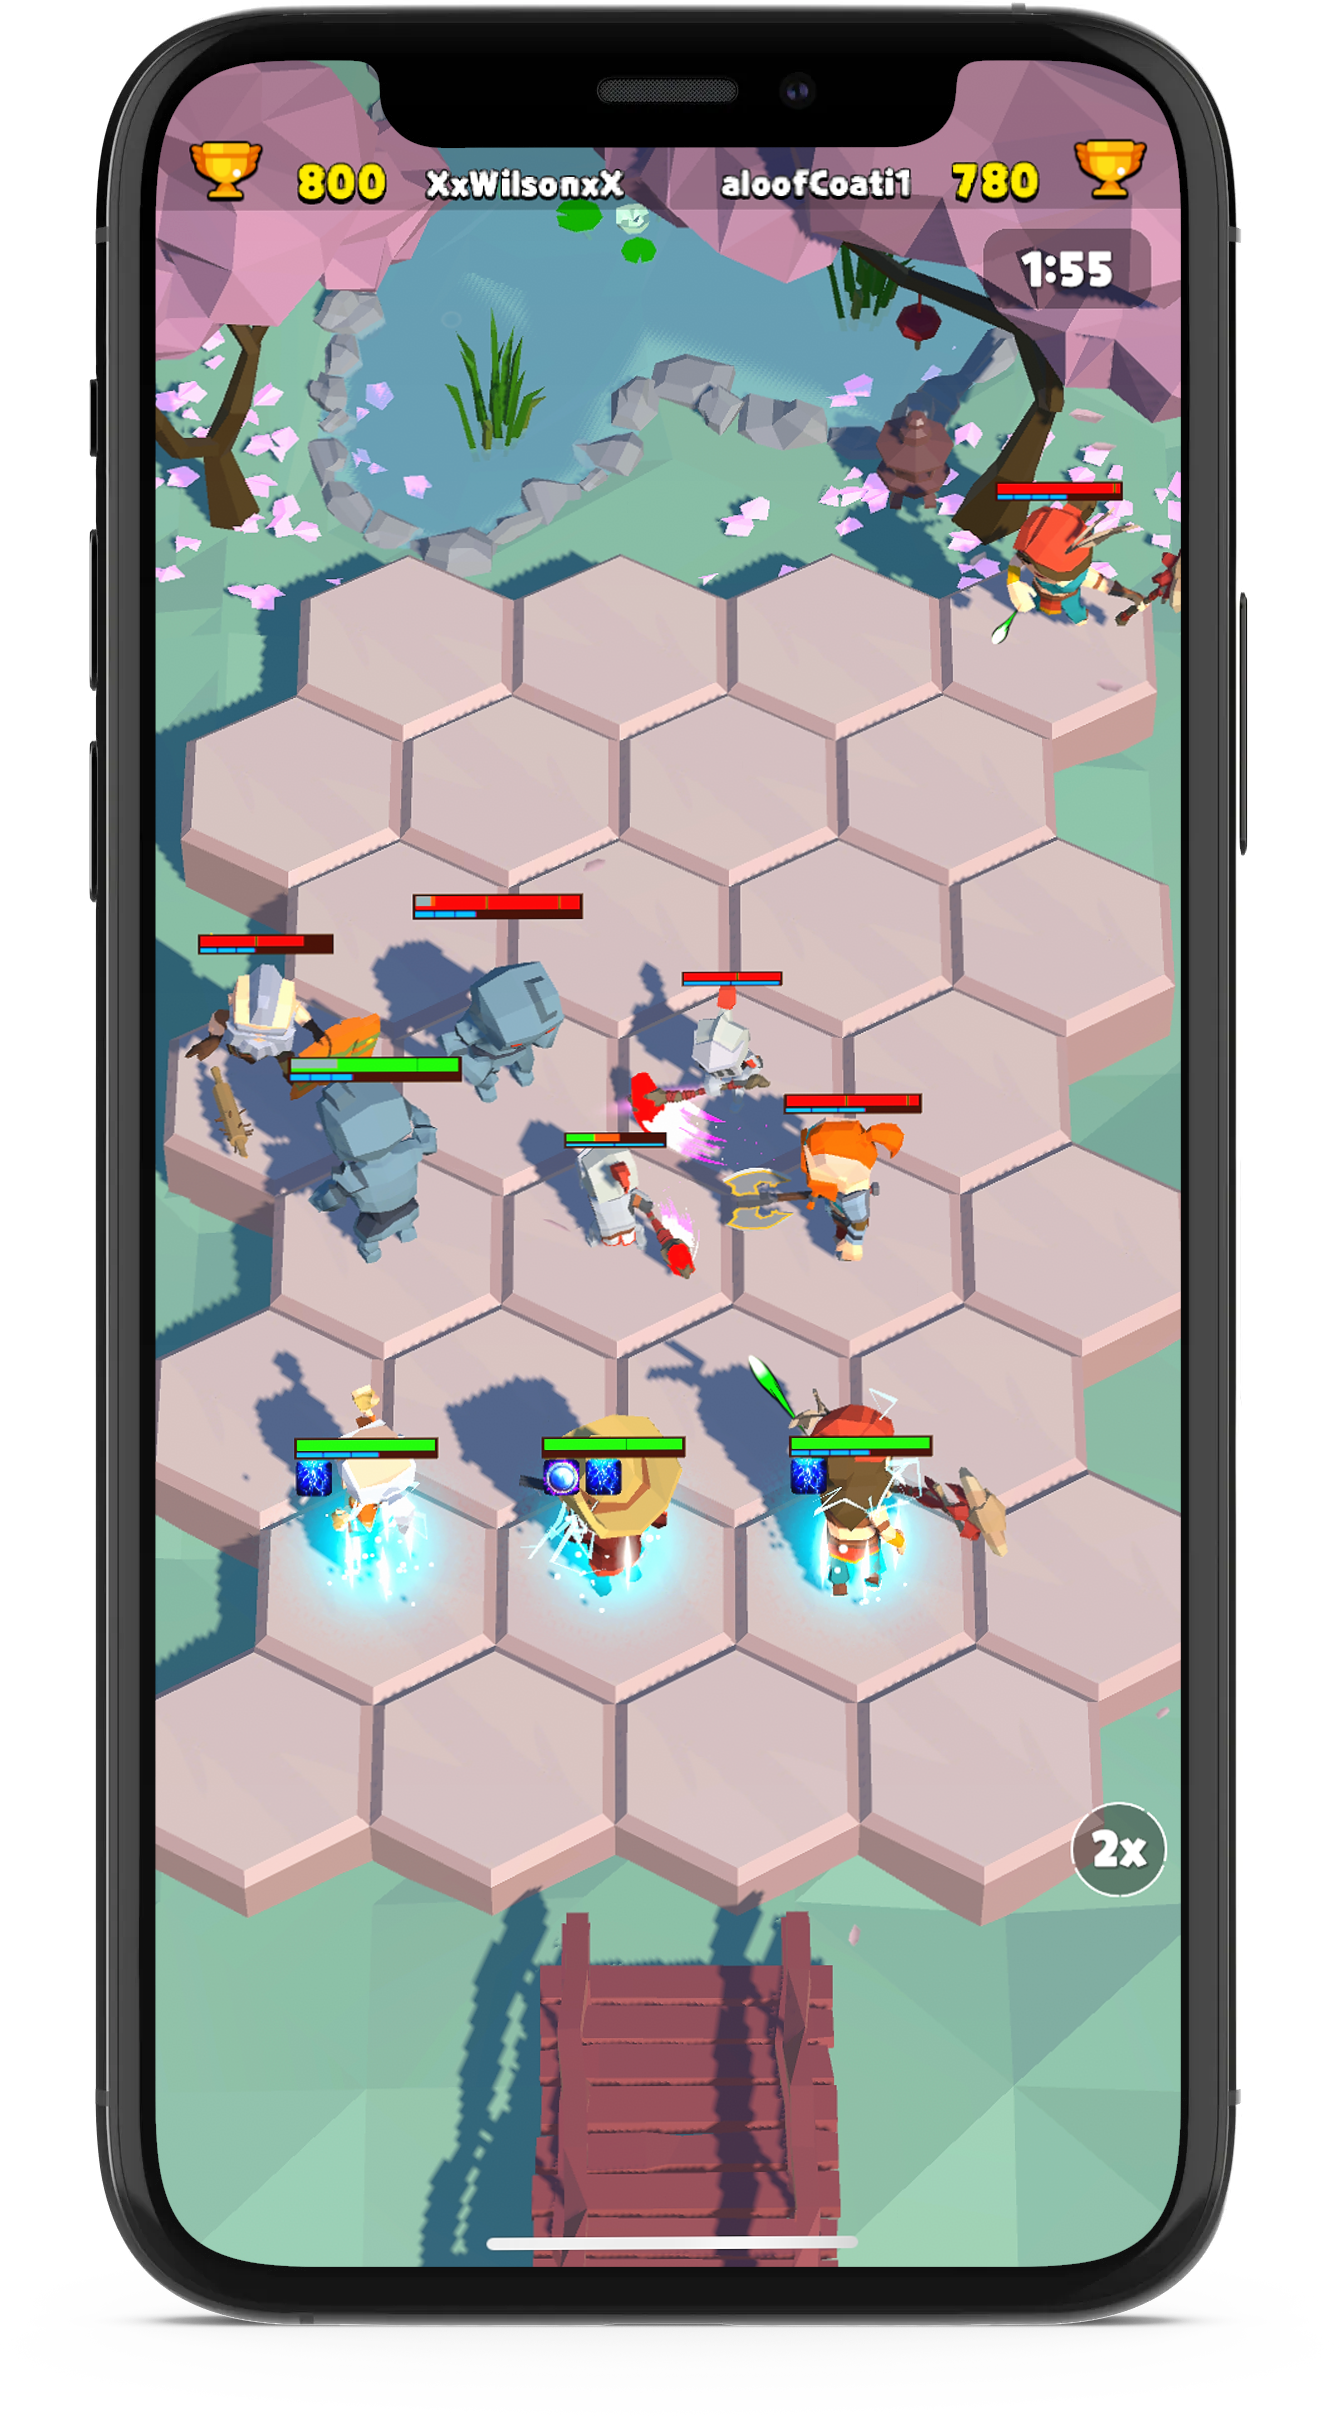
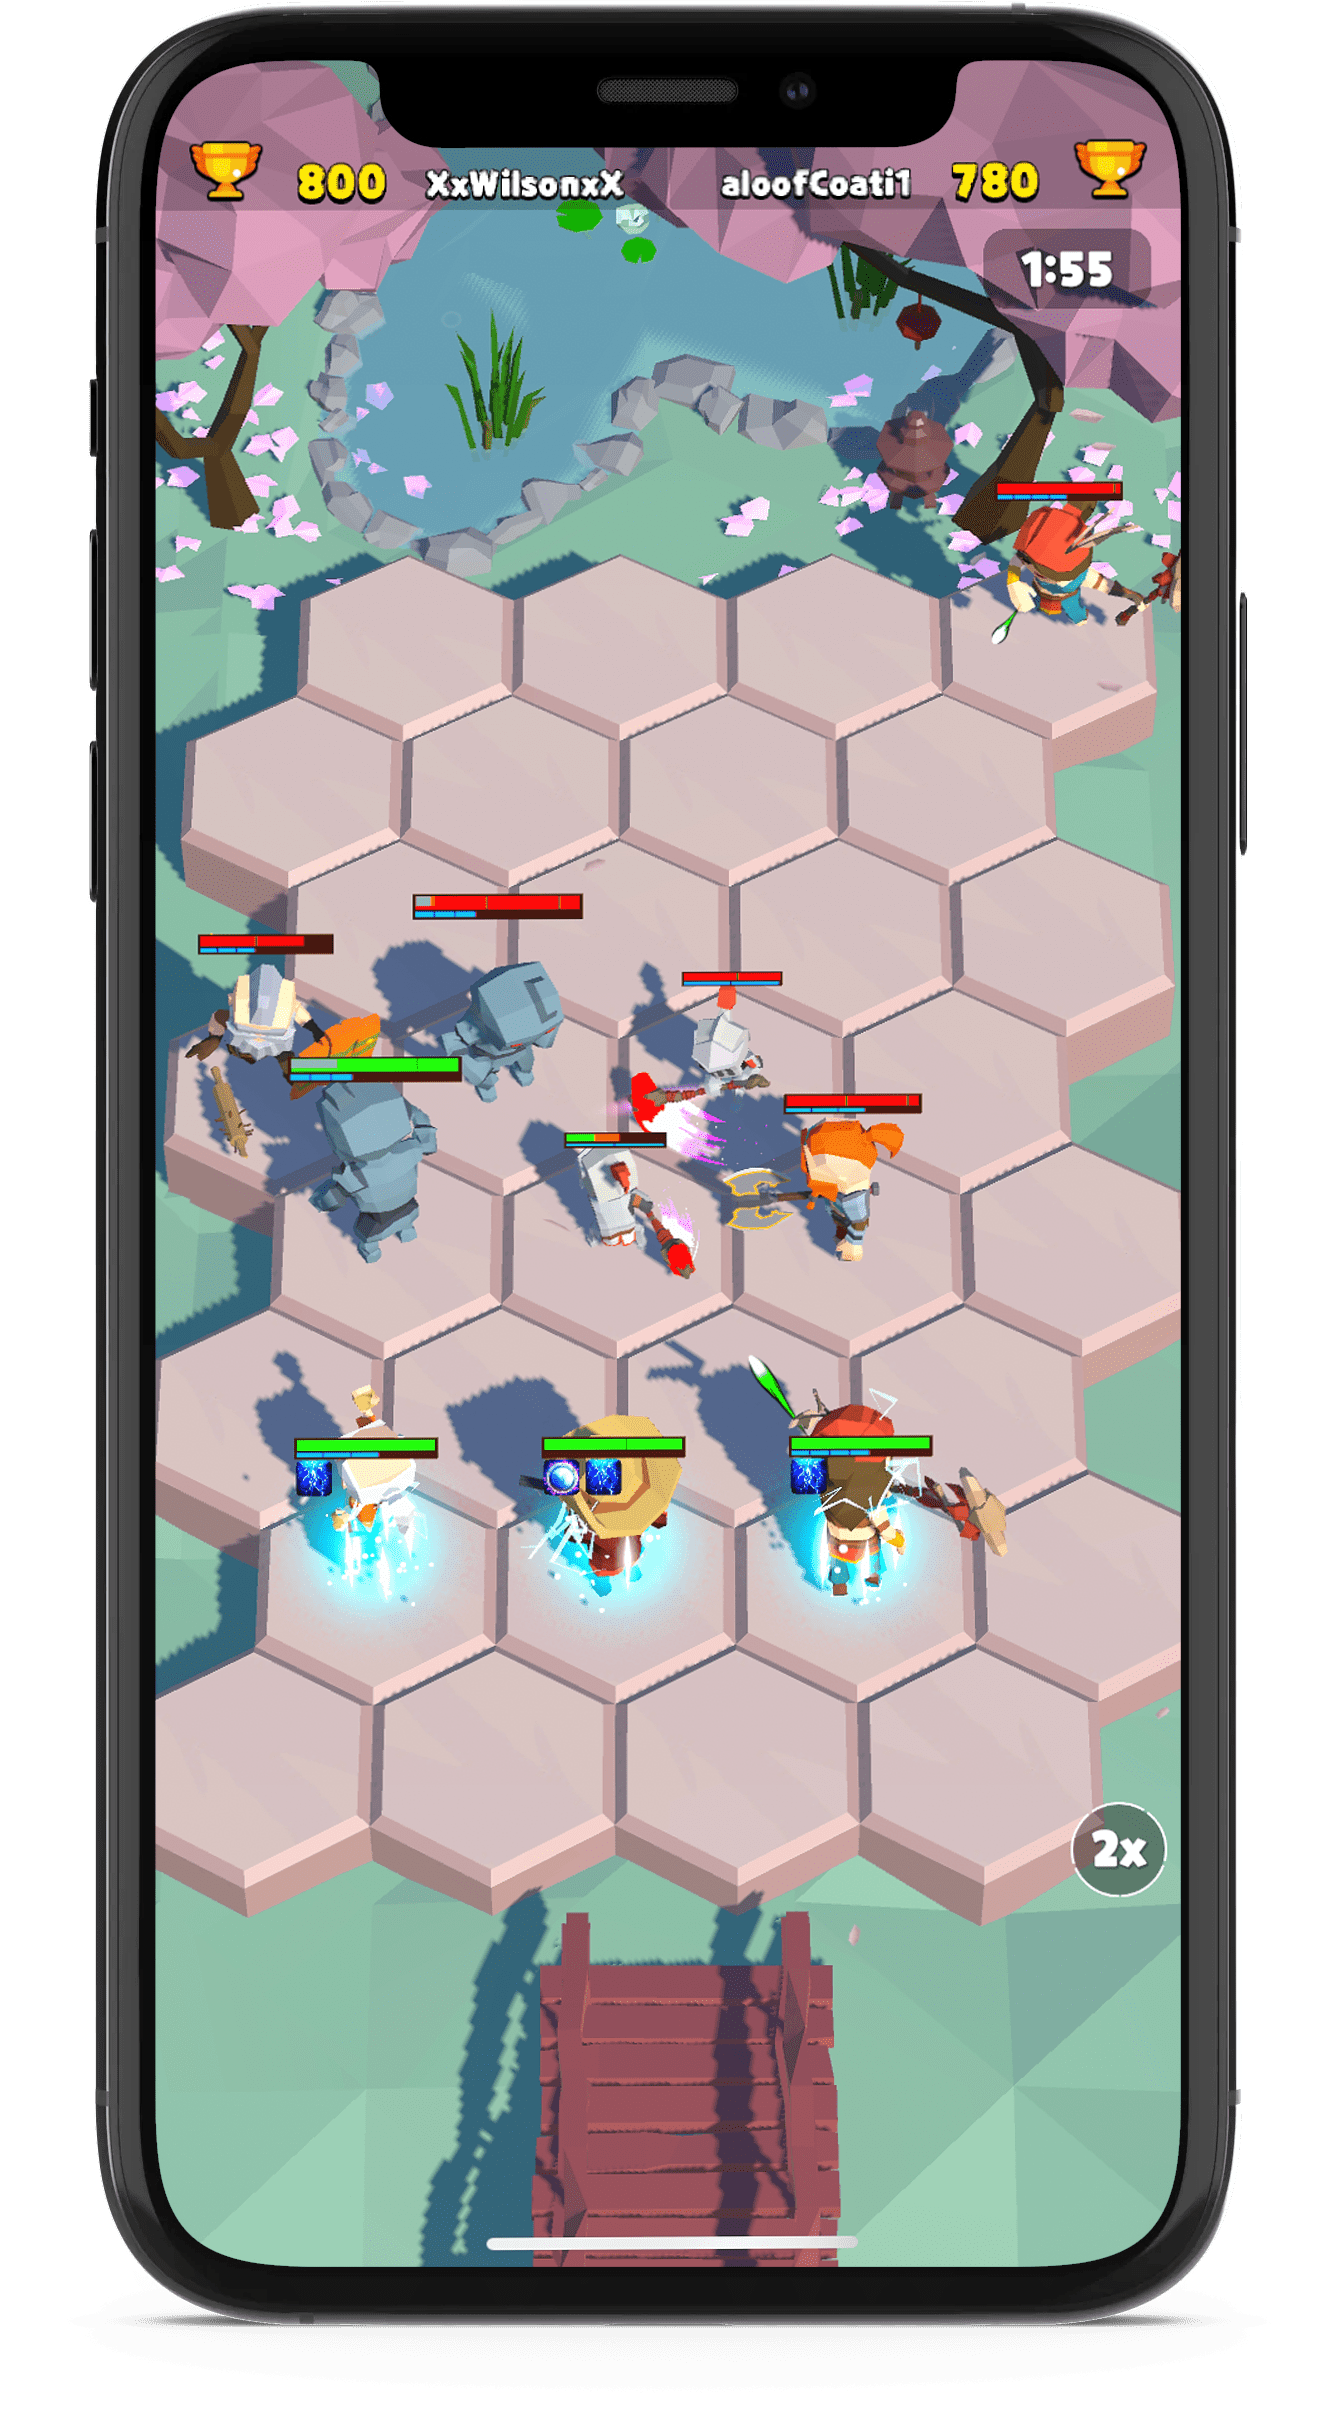
compress img, update website (#528)
* compress img, update website

* more images

diff --git a/templates/install.html b/templates/install.html
@@ -157,7 +157,7 @@
                     <img class="logo" src="{% static "images/logo.png" %}"/>
                     <h1 class="title is-1 has-text-warning">Equip and Conquer!</h1>
                     <h2 class="subtitle is-3 has-text-white-ter">
-                        Join players who are fighting tiny but winning BIG.
+                        Join thousands of players who are fighting tiny but winning BIG.
                     </h2>
                 </div>
                 <div class="mobile-only column has-text-centered">
@@ -171,7 +171,7 @@
         <div class="container has-text-centered">
             <img class="logo desktop-only" src="{% static "images/logo.png" %}"/>
             <h2 class="title has-text-white-ter">
-            Join our live open beta! (iOS on TestFlight)
+            Join our beta! Soft launch on Oct 13th.
           </h2>
 
           <figure class="image store-btn">
@@ -216,7 +216,7 @@
                             Equip and Conquer!
                         </h1>
                         <h2 class="subtitle is-4 has-text-grey">
-                            Join players who are fighting tiny but winning BIG.
+                            Join thousands of players who are fighting tiny but winning BIG.
                         </h2>
                     </div>
                 </div>
@@ -248,12 +248,17 @@
                             </a>
                         </span>
                         <span class="icon is-large mt-4 mr-3">
+                            <a href="https://www.twitter.com/tinytitansafk/">
+                                <i class="fab fa-3x fa-twitter"></i>
+                            </a>
+                        </span>
+                        <span class="icon is-large mt-4 mr-3">
                             <a href="https://www.reddit.com/r/tinytitans/" class="has-text-danger">
                                 <i class="fab fa-3x fa-reddit"></i>
                             </a>
                         </span>
                         <span class="icon is-large mt-4 mr-3">
-                            <a href="https://www.instagram.com/tinytitansofficial/" class="has-text-danger">
+                            <a href="https://www.instagram.com/tinytitansafk/" class="has-text-danger">
                                 <i class="fab fa-3x fa-instagram"></i>
                             </a>
                         </span>
